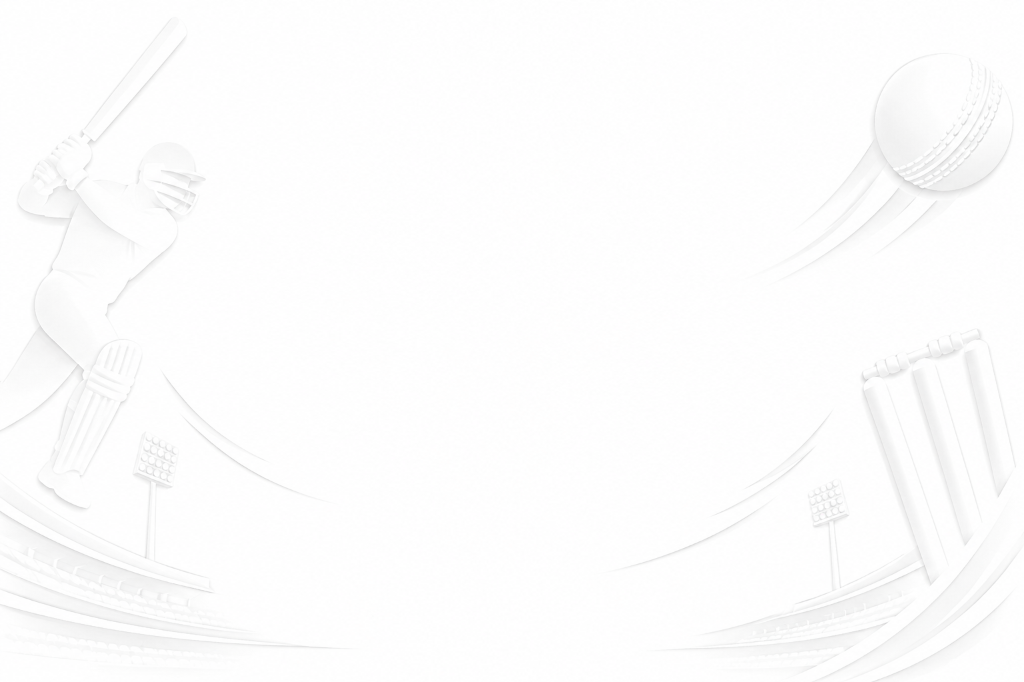
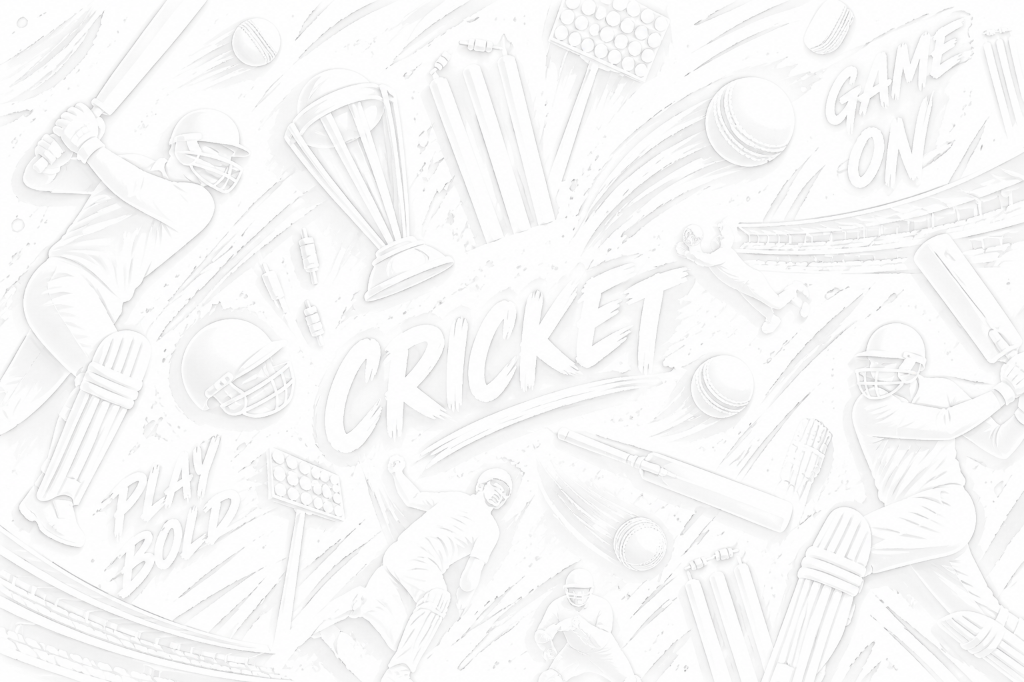
feat: apply updated high-resolution white cricket papercut texture background across all white sections and pages

diff --git a/partner.html b/partner.html
@@ -183,7 +183,7 @@
     </section>
 
     <!-- Credibility Stats -->
-    <section class="section section--sm" style="background: #fff; border-bottom: 1px solid var(--c-border);">
+    <section class="section section--sm section--white" style="border-bottom: 1px solid var(--c-border);">
       <div class="container">
         <div class="grid">
           <div class="col-3">

diff --git a/css/layout.css b/css/layout.css
@@ -93,7 +93,7 @@ input, select, textarea { color: #FFFFFF; background: #0F1B2C; border: 1px solid
 .col-2  { grid-column: span 2; }
 
 .section--white {
-  background-color: #FFFFFF !important;
+  background: #FFFFFF url('../assets/cricket-white-bg.png') center / cover no-repeat !important;
   color: #080E18 !important;
 }
 
